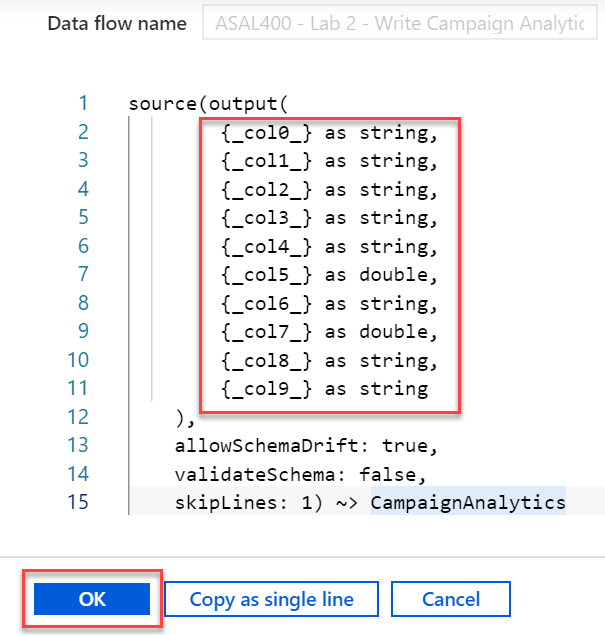
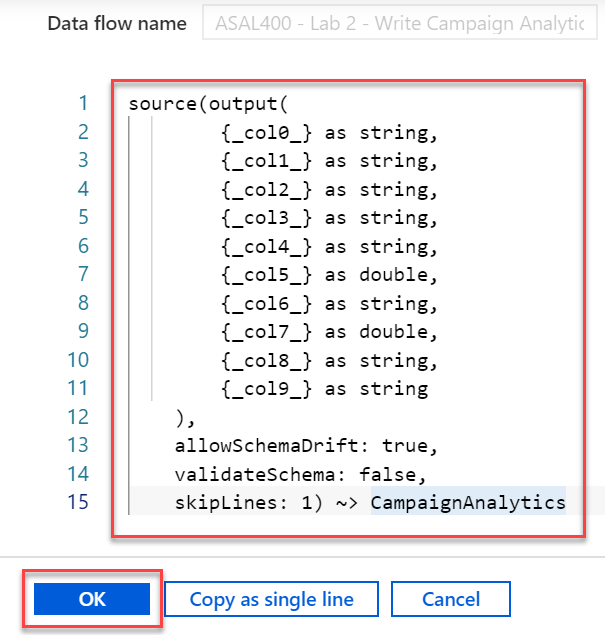
Update data flow script code

Changed region(s): [[0.1785, 0.1197, 0.9818, 0.8677], [0.3273, 0.1795, 0.7736, 0.6882]]

diff --git a/day-01/lab02-data-integration-part-2.md b/day-01/lab02-data-integration-part-2.md
@@ -303,6 +303,7 @@ In this task, you'll create datasets for the SQL tables that will serve as data 
 7. Replace the list of columns (`output`) with the following, then select **OK**:
 
     ```json
+    source(output(
             {_col0_} as string,
             {_col1_} as string,
             {_col2_} as string,
@@ -313,6 +314,10 @@ In this task, you'll create datasets for the SQL tables that will serve as data 
             {_col7_} as double,
             {_col8_} as string,
             {_col9_} as string
+        ),
+        allowSchemaDrift: true,
+        validateSchema: false,
+        skipLines: 1) ~> CampaignAnalytics
     ```
 
     Your script should match the following:
